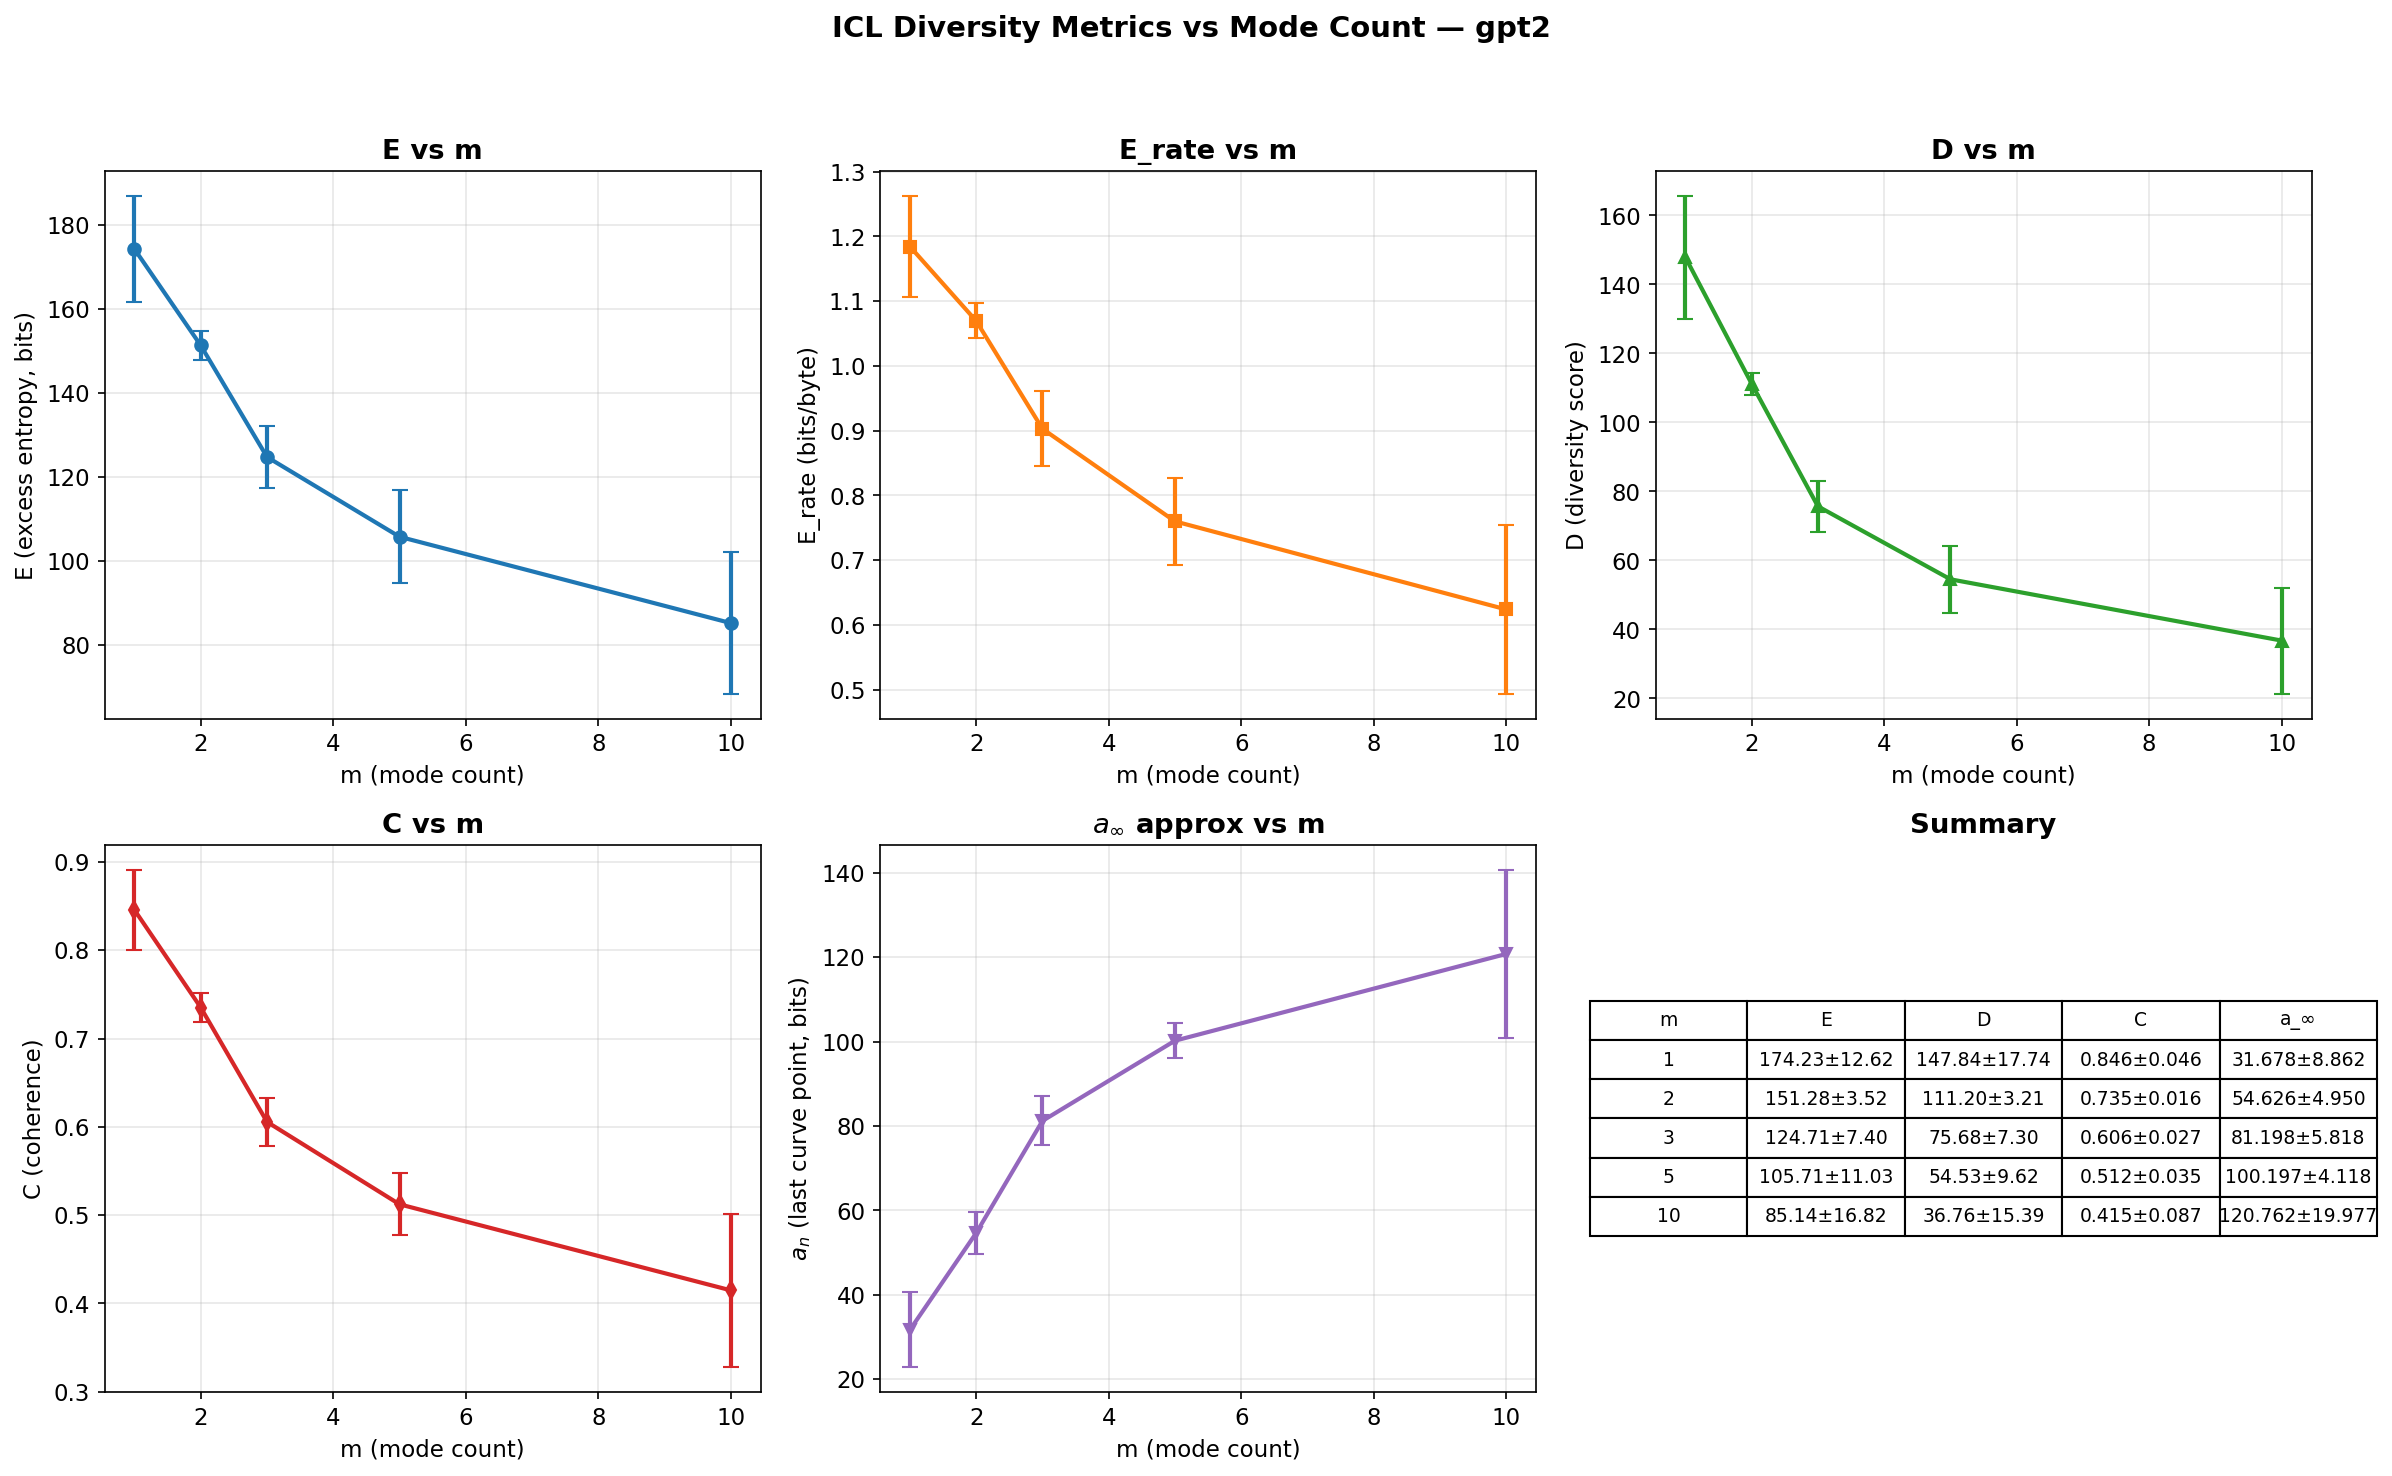
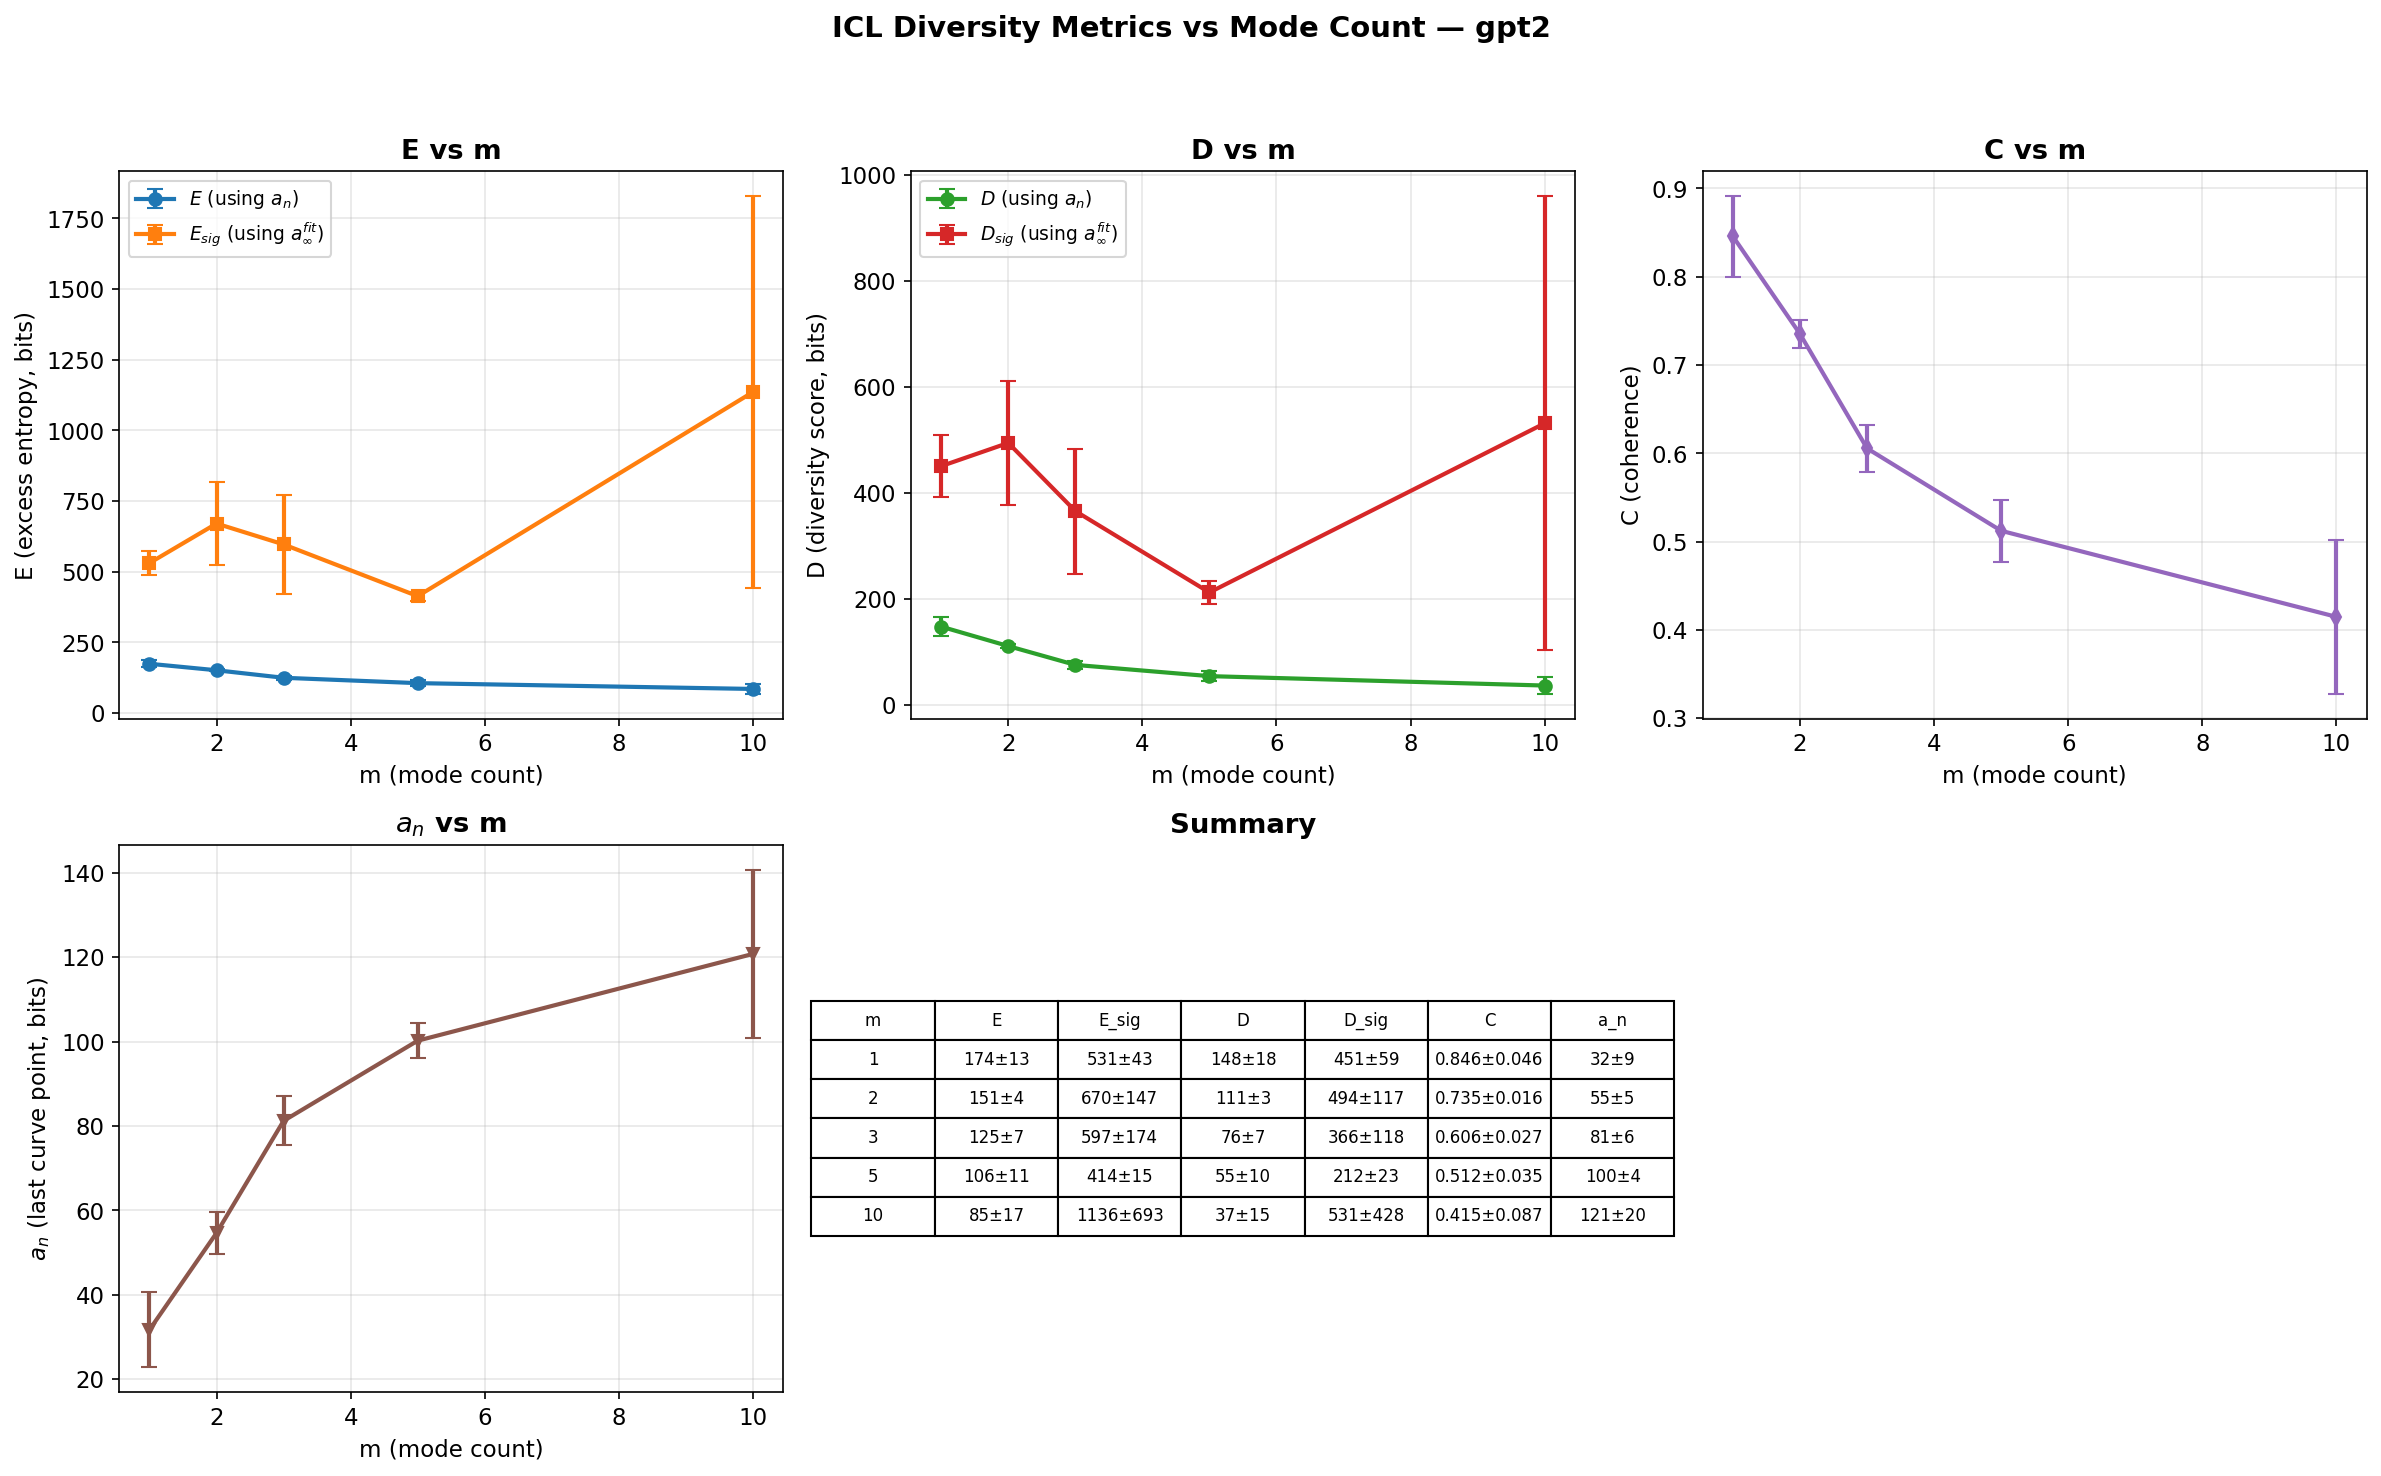
feat: add E_sig and D_sig (sigmoid-fitted a_inf) to metrics plot and report
E_sig uses the sigmoid-extrapolated a_inf instead of empirical a_n as the
baseline for excess entropy. D_sig = C × E_sig. Both are substantially
larger and noisier than their a_n-based counterparts, especially at m=10
where sigmoid fits are poor.

diff --git a/scripts/plot_mode_count_results.py b/scripts/plot_mode_count_results.py
@@ -23,6 +23,8 @@ import matplotlib as mpl
 import matplotlib.pyplot as plt
 import numpy as np
 
+from fit_ak_curves import fit_sigmoid
+
 mpl.rcParams.update(
     {
         "figure.facecolor": "white",
@@ -146,14 +148,26 @@ def plot_ak_overlay(grouped: dict[int, list[dict]], figures_dir: Path, model_nam
     print(f"  Saved: {path}")
 
 
+def _compute_E_sigmoid_for_run(run: dict) -> float | None:
+    """Compute E using sigmoid-fitted a_inf instead of a_n."""
+    curve = np.array(run["a_k_curve"])
+    k = np.arange(1, len(curve) + 1, dtype=float)
+    fit_params, success = fit_sigmoid(k, curve)
+    if not success:
+        return None
+    a_inf = fit_params["a_inf"]
+    return float(sum(a_k - a_inf for a_k in curve))
+
+
 def plot_metrics_vs_m(grouped: dict[int, list[dict]], figures_dir: Path, model_name: str) -> None:
-    """Plot E, D, C, a_∞ vs m with error bars."""
+    """Plot E, E_sigmoid, D, D_sigmoid, C, a_n vs m with error bars."""
     m_values = []
     E_means, E_stds = [], []
-    E_rate_means, E_rate_stds = [], []
+    E_sig_means, E_sig_stds = [], []
     D_means, D_stds = [], []
+    D_sig_means, D_sig_stds = [], []
     C_means, C_stds = [], []
-    a_inf_means, a_inf_stds = [], []
+    a_n_means, a_n_stds = [], []
 
     for m, runs in sorted(grouped.items()):
         m_values.append(m)
@@ -161,83 +175,97 @@ def plot_metrics_vs_m(grouped: dict[int, list[dict]], figures_dir: Path, model_n
         E_means.append(np.mean(Es))
         E_stds.append(np.std(Es))
 
-        E_rates = [r.get("E_rate", r.get("excess_entropy_E")) for r in runs]
-        E_rate_means.append(np.mean(E_rates))
-        E_rate_stds.append(np.std(E_rates))
-
-        Ds = [r["diversity_score_D"] for r in runs]
-        D_means.append(np.mean(Ds))
-        D_stds.append(np.std(Ds))
+        # Compute E_sigmoid and D_sigmoid per run (one fit each)
+        E_sigs = []
+        D_sigs = []
+        for r in runs:
+            e_sig = _compute_E_sigmoid_for_run(r)
+            if e_sig is not None:
+                E_sigs.append(e_sig)
+                D_sigs.append(r["coherence_C"] * e_sig)
+        E_sig_means.append(np.mean(E_sigs) if E_sigs else np.nan)
+        E_sig_stds.append(np.std(E_sigs) if E_sigs else np.nan)
 
         Cs = [r["coherence_C"] for r in runs]
         C_means.append(np.mean(Cs))
         C_stds.append(np.std(Cs))
 
-        # a_∞ approximation: last point of a_k curve
-        curve_key = "a_k_curve"
-        a_infs = [r[curve_key][-1] for r in runs]
-        a_inf_means.append(np.mean(a_infs))
-        a_inf_stds.append(np.std(a_infs))
+        Ds = [r["diversity_score_D"] for r in runs]
+        D_means.append(np.mean(Ds))
+        D_stds.append(np.std(Ds))
+
+        D_sig_means.append(np.mean(D_sigs) if D_sigs else np.nan)
+        D_sig_stds.append(np.std(D_sigs) if D_sigs else np.nan)
+
+        # a_n: last point of a_k curve
+        a_ns = [r["a_k_curve"][-1] for r in runs]
+        a_n_means.append(np.mean(a_ns))
+        a_n_stds.append(np.std(a_ns))
 
     fig, axes = plt.subplots(2, 3, figsize=(16, 10))
 
-    # E vs m
+    # E vs m (both versions)
     ax = axes[0, 0]
-    ax.errorbar(m_values, E_means, yerr=E_stds, marker="o", capsize=4, linewidth=2)
+    ax.errorbar(m_values, E_means, yerr=E_stds, marker="o", capsize=4, linewidth=2, label="$E$ (using $a_n$)")
+    ax.errorbar(m_values, E_sig_means, yerr=E_sig_stds, marker="s", capsize=4, linewidth=2,
+                color="#ff7f0e", label="$E_{sig}$ (using $a_\\infty^{fit}$)")
     ax.set_xlabel("m (mode count)")
     ax.set_ylabel("E (excess entropy, bits)")
     ax.set_title("E vs m", fontweight="bold")
+    ax.legend(fontsize=9)
 
-    # E_rate vs m
+    # D vs m (both versions)
     ax = axes[0, 1]
-    ax.errorbar(m_values, E_rate_means, yerr=E_rate_stds, marker="s", capsize=4, linewidth=2, color="#ff7f0e")
+    ax.errorbar(m_values, D_means, yerr=D_stds, marker="o", capsize=4, linewidth=2,
+                color="#2ca02c", label="$D$ (using $a_n$)")
+    ax.errorbar(m_values, D_sig_means, yerr=D_sig_stds, marker="s", capsize=4, linewidth=2,
+                color="#d62728", label="$D_{sig}$ (using $a_\\infty^{fit}$)")
     ax.set_xlabel("m (mode count)")
-    ax.set_ylabel("E_rate (bits/byte)")
-    ax.set_title("E_rate vs m", fontweight="bold")
-
-    # D vs m
-    ax = axes[0, 2]
-    ax.errorbar(m_values, D_means, yerr=D_stds, marker="^", capsize=4, linewidth=2, color="#2ca02c")
-    ax.set_xlabel("m (mode count)")
-    ax.set_ylabel("D (diversity score)")
+    ax.set_ylabel("D (diversity score, bits)")
     ax.set_title("D vs m", fontweight="bold")
+    ax.legend(fontsize=9)
 
     # C vs m
-    ax = axes[1, 0]
-    ax.errorbar(m_values, C_means, yerr=C_stds, marker="d", capsize=4, linewidth=2, color="#d62728")
+    ax = axes[0, 2]
+    ax.errorbar(m_values, C_means, yerr=C_stds, marker="d", capsize=4, linewidth=2, color="#9467bd")
     ax.set_xlabel("m (mode count)")
     ax.set_ylabel("C (coherence)")
     ax.set_title("C vs m", fontweight="bold")
 
-    # a_∞ vs m
-    ax = axes[1, 1]
-    ax.errorbar(m_values, a_inf_means, yerr=a_inf_stds, marker="v", capsize=4, linewidth=2, color="#9467bd")
+    # a_n vs m
+    ax = axes[1, 0]
+    ax.errorbar(m_values, a_n_means, yerr=a_n_stds, marker="v", capsize=4, linewidth=2, color="#8c564b")
     ax.set_xlabel("m (mode count)")
     ax.set_ylabel("$a_n$ (last curve point, bits)")
-    ax.set_title("$a_\\infty$ approx vs m", fontweight="bold")
+    ax.set_title("$a_n$ vs m", fontweight="bold")
 
     # Summary table
-    ax = axes[1, 2]
+    ax = axes[1, 1]
     ax.axis("off")
     table_data = []
     for i, m in enumerate(m_values):
         table_data.append([
             str(m),
-            f"{E_means[i]:.2f}±{E_stds[i]:.2f}",
-            f"{D_means[i]:.2f}±{D_stds[i]:.2f}",
+            f"{E_means[i]:.0f}±{E_stds[i]:.0f}",
+            f"{E_sig_means[i]:.0f}±{E_sig_stds[i]:.0f}",
+            f"{D_means[i]:.0f}±{D_stds[i]:.0f}",
+            f"{D_sig_means[i]:.0f}±{D_sig_stds[i]:.0f}",
             f"{C_means[i]:.3f}±{C_stds[i]:.3f}",
-            f"{a_inf_means[i]:.3f}±{a_inf_stds[i]:.3f}",
+            f"{a_n_means[i]:.0f}±{a_n_stds[i]:.0f}",
         ])
     table = ax.table(
         cellText=table_data,
-        colLabels=["m", "E", "D", "C", "a_∞"],
+        colLabels=["m", "E", "E_sig", "D", "D_sig", "C", "a_n"],
         loc="center",
         cellLoc="center",
     )
     table.auto_set_font_size(False)
-    table.set_fontsize(9)
-    table.scale(1.2, 1.5)
+    table.set_fontsize(8)
+    table.scale(1.3, 1.5)
     ax.set_title("Summary", fontweight="bold")
+
+    # Hide unused subplot
+    axes[1, 2].set_visible(False)
 
     fig.suptitle(f"ICL Diversity Metrics vs Mode Count — {model_name}", fontsize=14, fontweight="bold")
     fig.tight_layout(rect=[0, 0, 1, 0.95])

diff --git a/reports/MODE_COUNT_EXPERIMENT.md b/reports/MODE_COUNT_EXPERIMENT.md
@@ -35,7 +35,7 @@ Overlay of permutation-averaged a_k curves for all m values on shared axes, with
 
 ![Metrics vs m](../figures/mode_count/metrics_vs_m.png)
 
-Aggregate ICL diversity metrics as a function of mode count m. Top row: E (excess entropy, bits), E_rate (bits/byte), and D (diversity score). Bottom row: C (coherence) and a_n (last curve point, approximating a_∞). All metrics are shown with ±1 SD error bars across 3 seeds. E, C, and D all decrease monotonically with m, while a_n increases. This pattern is consistent: more modes with fixed n means fewer responses per mode, reducing the base model's ability to learn inter-response structure (lower E) and predict conditionally (lower C). The summary table provides exact values. Base model: GPT-2, n = 12.
+Aggregate ICL diversity metrics as a function of mode count m. Top row: E and E_sig (excess entropy using a_n vs sigmoid-fitted a_∞, in bits), D and D_sig (diversity scores, D = C × E), and C (coherence). Bottom row: a_n (last curve point, approximating a_∞) and summary table with all metrics. E and D are shown in two versions: using the empirical a_n (stable) and the sigmoid-extrapolated a_∞ (captures asymptotic behavior but high variance at m = 10 where fits are poor). E, C, and D all decrease monotonically with m using a_n, while E_sig is non-monotonic due to fit instability. All metrics shown with ±1 SD error bars across 3 seeds. Base model: GPT-2, n = 12.
 
 ### Sigmoid Fits (`figures/mode_count/sigmoid_fits.png`)
 
@@ -51,13 +51,17 @@ Sigmoid fit parameters as a function of mode count m. k₀ (inflection point) in
 
 ## Results
 
-| m | E (bits) | C | D | a_n (bits) |
-|---|----------|---|---|------------|
-| 1 | 174 ± 15 | 0.845 ± 0.056 | 148 ± 21 | 27 ± 5 |
-| 2 | 151 ± 4 | 0.735 ± 0.020 | 111 ± 4 | 55 ± 5 |
-| 3 | 125 ± 9 | 0.606 ± 0.032 | 76 ± 9 | 81 ± 7 |
-| 5 | 106 ± 13 | 0.512 ± 0.043 | 55 ± 12 | 100 ± 5 |
-| 10 | 85 ± 20 | 0.415 ± 0.104 | 37 ± 19 | 121 ± 9 |
+E uses a_n (last curve point) as the baseline; E_sig uses the sigmoid-fitted a_∞. D = C × E; D_sig = C × E_sig.
+
+| m | E (bits) | E_sig (bits) | C | D (bits) | D_sig (bits) | a_n (bits) |
+|---|----------|-------------|---|----------|-------------|------------|
+| 1 | 174 ± 13 | 531 ± 43 | 0.846 ± 0.046 | 148 ± 18 | 451 ± 59 | 32 ± 9 |
+| 2 | 151 ± 4 | 670 ± 147 | 0.735 ± 0.016 | 111 ± 3 | 494 ± 117 | 55 ± 5 |
+| 3 | 125 ± 7 | 597 ± 174 | 0.606 ± 0.027 | 76 ± 7 | 366 ± 118 | 81 ± 6 |
+| 5 | 106 ± 11 | 414 ± 15 | 0.512 ± 0.035 | 55 ± 10 | 212 ± 23 | 100 ± 4 |
+| 10 | 85 ± 17 | 1136 ± 693 | 0.415 ± 0.087 | 37 ± 15 | 531 ± 428 | 121 ± 20 |
+
+**Note on E_sig**: The sigmoid-fitted a_∞ can be substantially lower than a_n, inflating E_sig. At m = 10, sigmoid fits are poor (R² ≈ 0.74–0.82) and a_∞ estimates are unreliable, leading to very high variance in E_sig and D_sig. E (using a_n) is the more stable metric at small n.
 
 ## Hypothesis Evaluation
 

diff --git a/figures/mode_count/metrics_vs_m.caption.md b/figures/mode_count/metrics_vs_m.caption.md
@@ -1,1 +1,1 @@
-Aggregate ICL diversity metrics as a function of mode count m. Top row: E (excess entropy, bits), E_rate (bits/byte), and D (diversity score). Bottom row: C (coherence) and a_n (last curve point, approximating a_∞). All metrics are shown with ±1 SD error bars across 3 seeds. E, C, and D all decrease monotonically with m, while a_n increases. This pattern is consistent: more modes with fixed n means fewer responses per mode, reducing the base model's ability to learn inter-response structure (lower E) and predict conditionally (lower C). The summary table provides exact values. Base model: GPT-2, n = 12.
+Aggregate ICL diversity metrics as a function of mode count m. Top row: E and E_sig (excess entropy using a_n vs sigmoid-fitted a_∞, in bits), D and D_sig (diversity scores, D = C × E), and C (coherence). Bottom row: a_n (last curve point, approximating a_∞) and summary table with all metrics. E and D are shown in two versions: using the empirical a_n (stable) and the sigmoid-extrapolated a_∞ (captures asymptotic behavior but high variance at m = 10 where fits are poor). E, C, and D all decrease monotonically with m using a_n, while E_sig is non-monotonic due to fit instability. All metrics shown with ±1 SD error bars across 3 seeds. Base model: GPT-2, n = 12.
